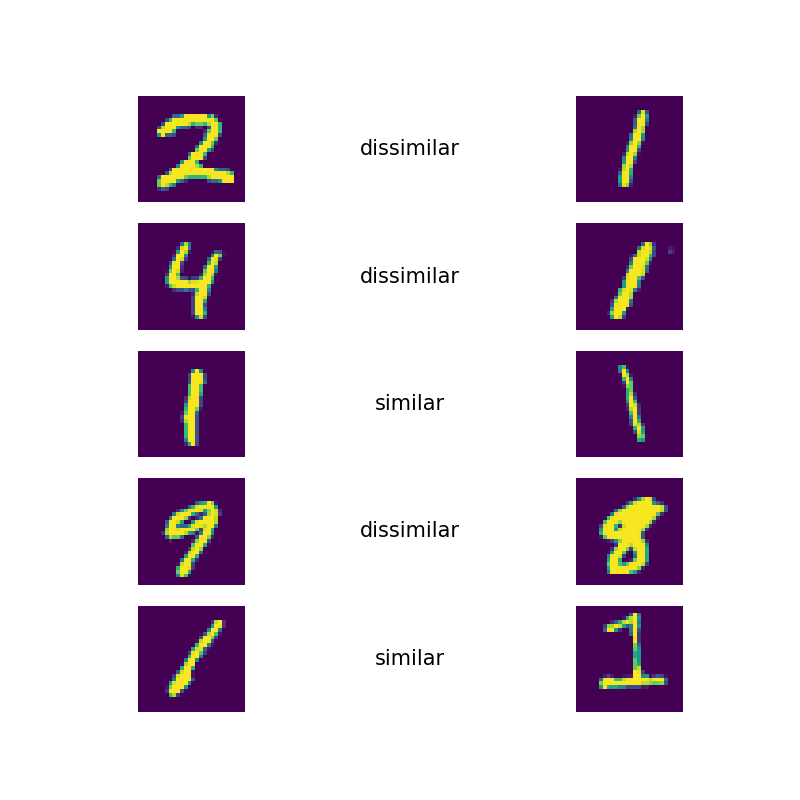
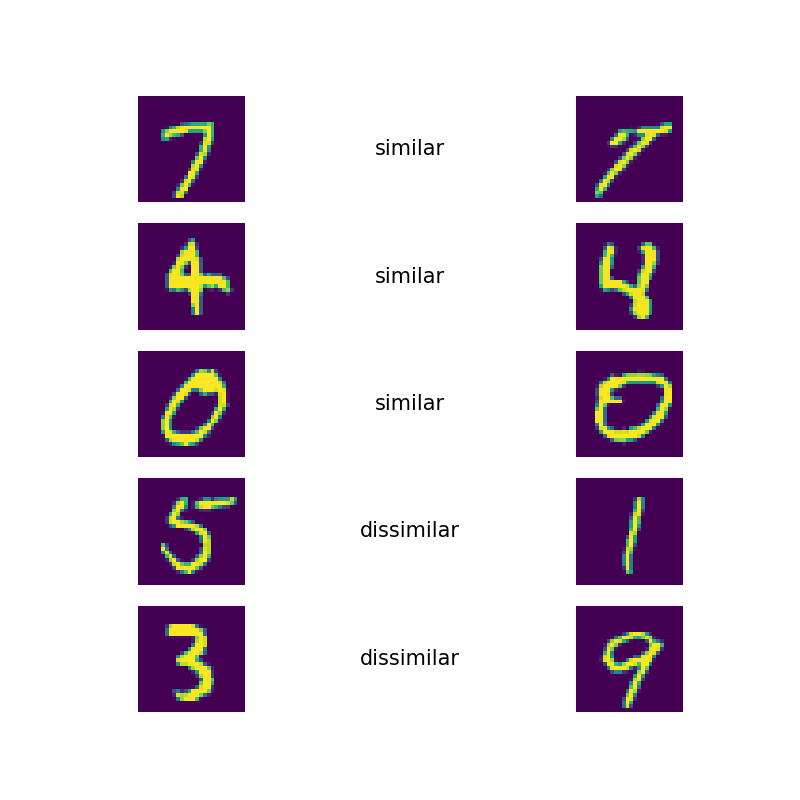
mnist.png

diff --git a/main.py b/main.py
@@ -1,5 +1,8 @@
+from src.data_mnist import DataMNIST
 from src.siameseNet import SiameseNet
 
+DataMNIST().vis()
 new_inst = SiameseNet()
 new_inst.train_model()
 new_inst.random_test()
+
